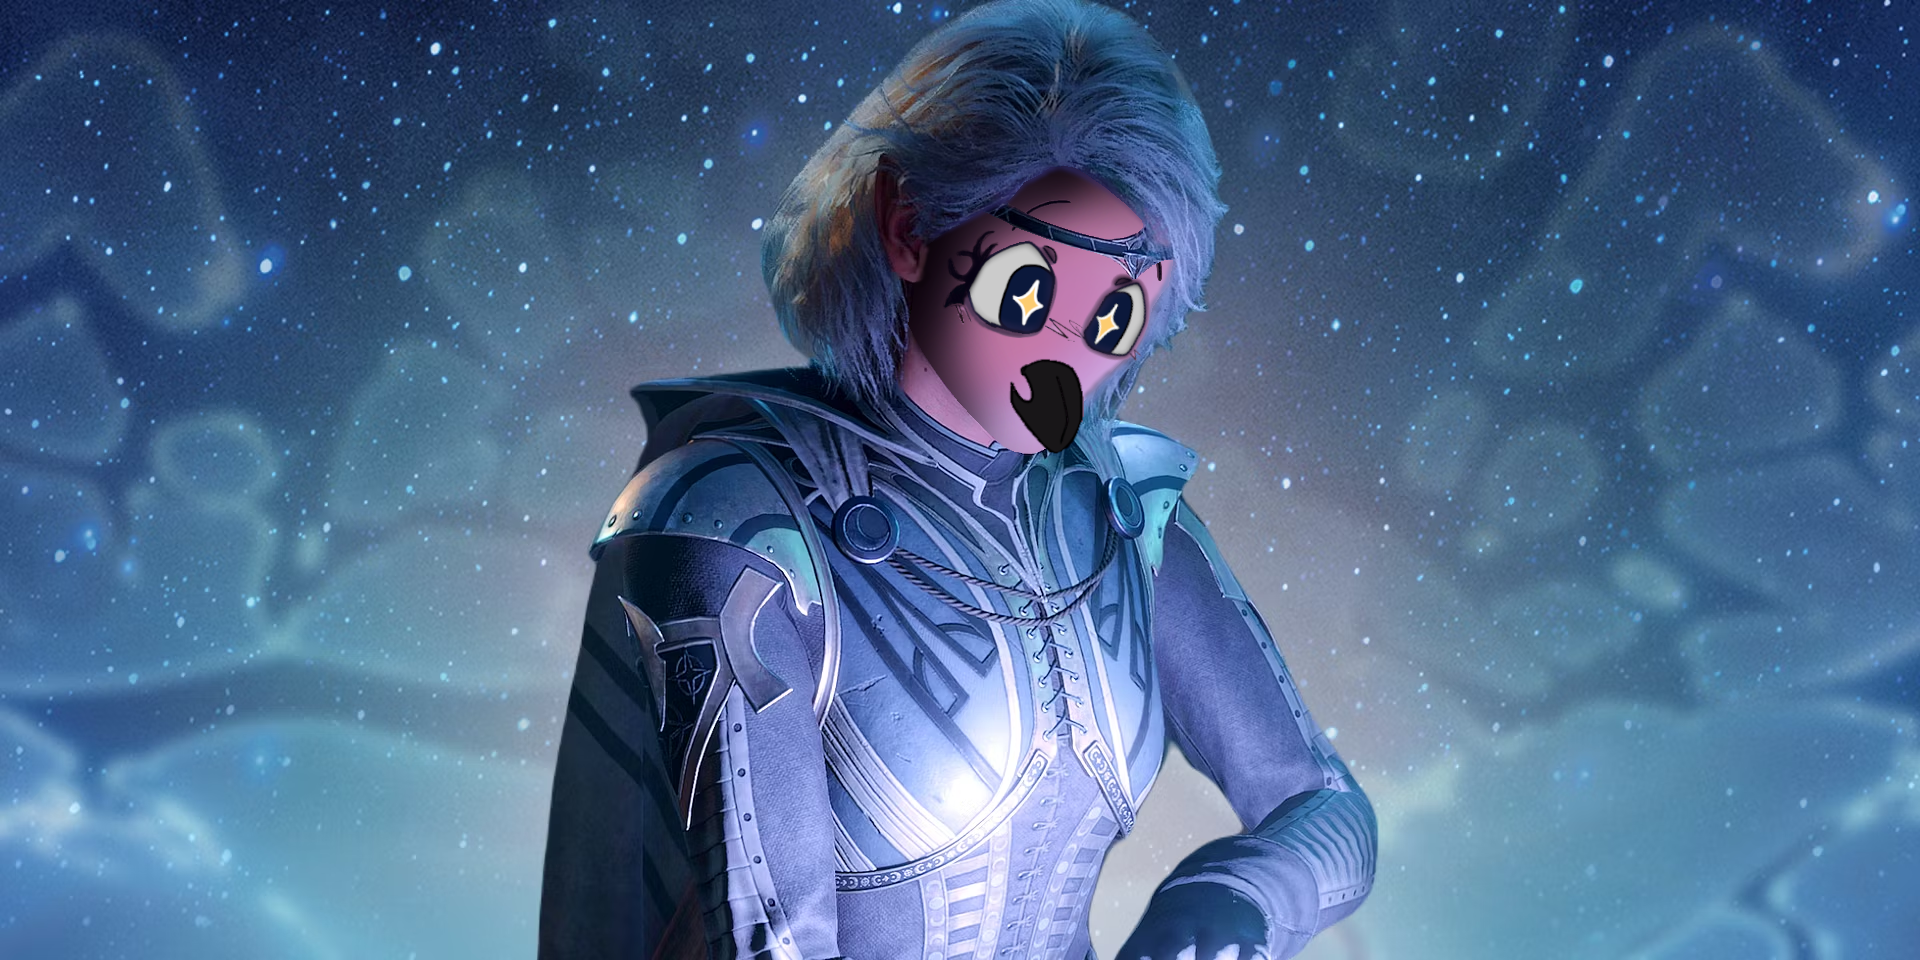
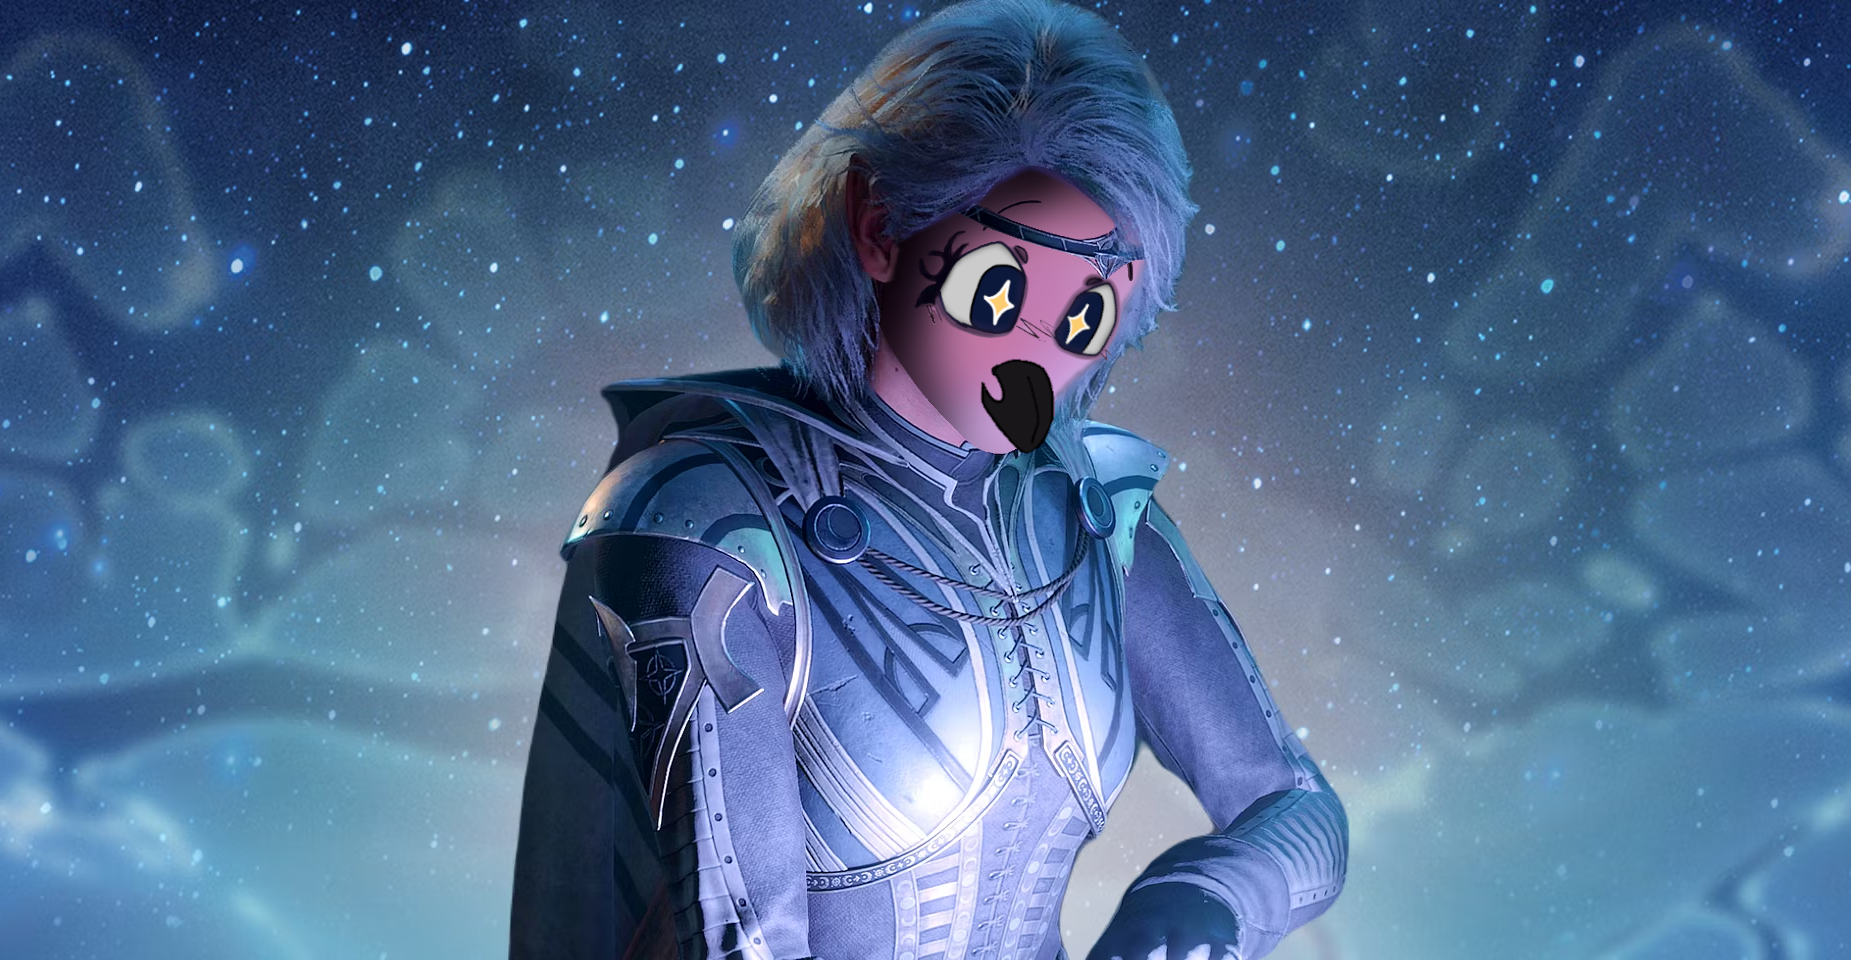
rogne des fondimg

diff --git a/style.css b/style.css
@@ -476,10 +476,10 @@ hr::after {
     }
 
     .fondimg {
-        min-width: 75vw!important;
+        min-width: auto!important;
         max-width: 90vw!important;
         max-height: 85vh!important;
-        min-height: 70vh!important;
+        min-height: 85vh!important;
     }
 
     .description {
